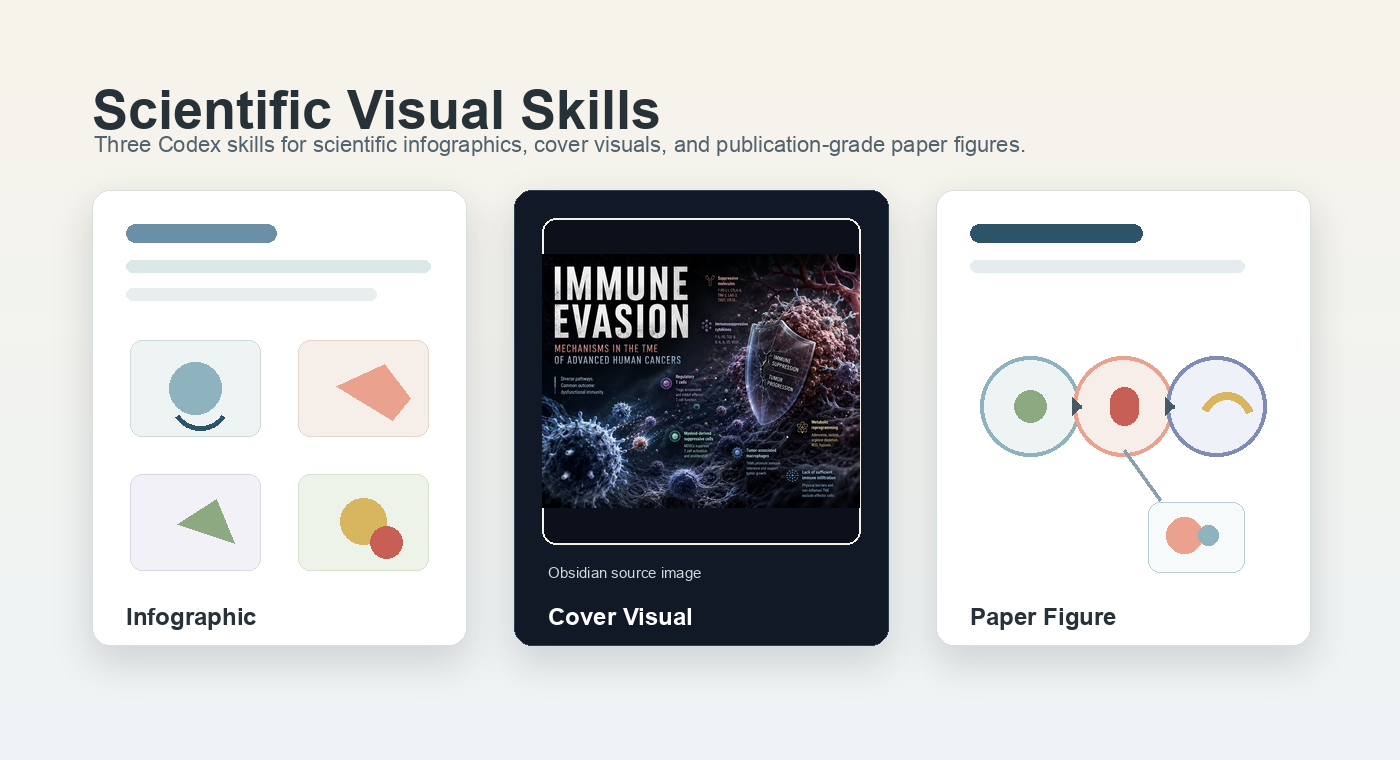
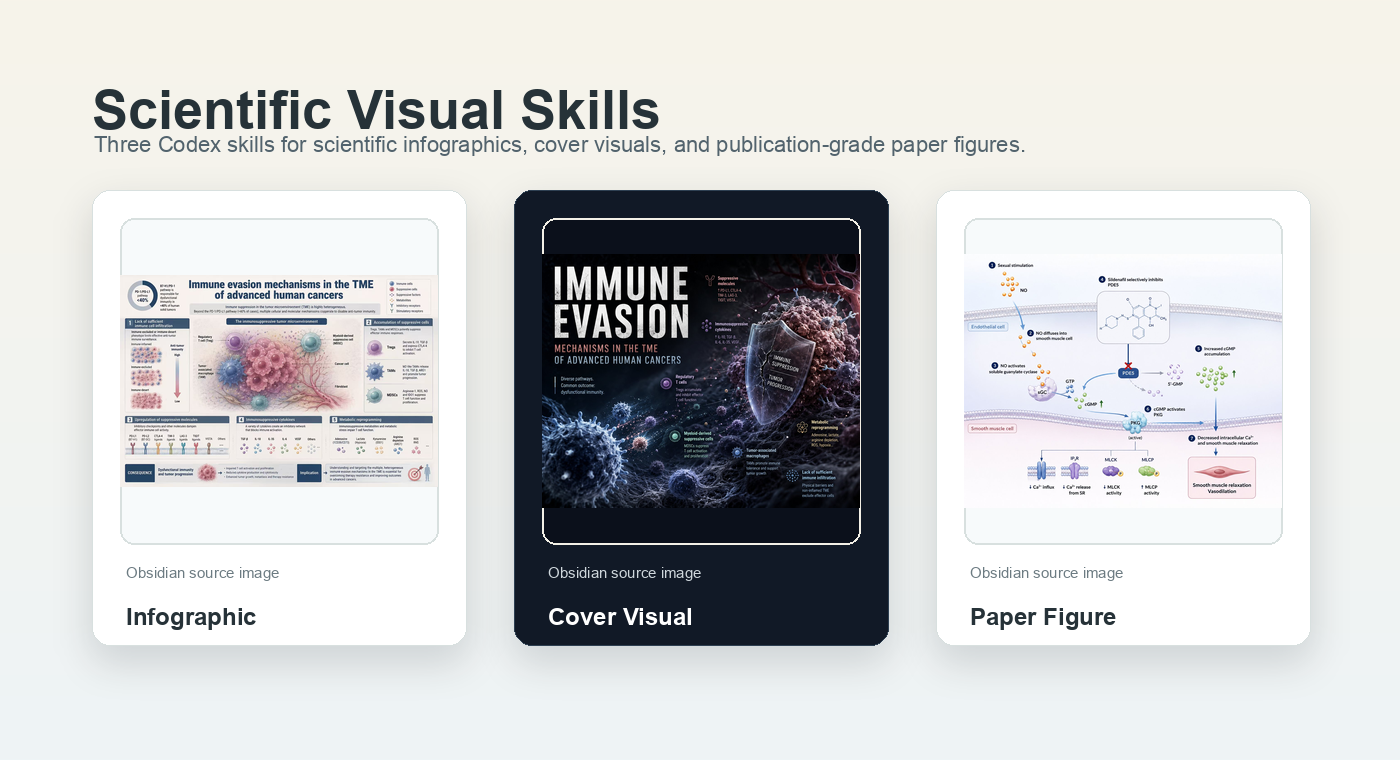
Use Obsidian source images for README cover cards

diff --git a/README.md b/README.md
@@ -160,7 +160,9 @@ scientific-visual-skills/
 ├── LICENSE
 ├── assets/
 │   ├── scientific-visual-skills-cover.png
+│   ├── obsidian-scientific-infographic.jpg
 │   ├── obsidian-scientific-cover-visual.jpg
+│   ├── obsidian-scientific-paper-figure.jpg
 │   └── opensea/
 │       └── README.md
 ├── docs/
@@ -189,7 +191,7 @@ scientific-visual-skills/
 - 已记录来源 URL、权利人、许可依据和检查日期。
 - 图片中不包含未经授权的商标、人物肖像或机构标识。
 
-当前仓库封面图中间卡片采用用户 Obsidian 资料中的科研封面示例图，作为 `scientific-cover-visual` 的视觉展示；仓库不直接打包第三方 OpenSea 图片。
+当前仓库封面图采用用户 Obsidian 资料中的三张科研视觉示例图，分别对应 `scientific-infographic`、`scientific-cover-visual` 和 `scientific-paper-figure`；仓库不直接打包第三方 OpenSea 图片。
 
 ## 适合人群
 

diff --git a/docs/github-publishing.md b/docs/github-publishing.md
@@ -45,7 +45,7 @@ Initial release: scientific visual generation skills
 
 ## OpenSea Image Handling
 
-Do not add third-party OpenSea marketplace images unless redistribution rights are confirmed. The current repository includes a composite PNG cover that uses the user-provided Obsidian scientific cover image in the center card, plus a reserved `assets/opensea/` folder with rights documentation requirements.
+Do not add third-party OpenSea marketplace images unless redistribution rights are confirmed. The current repository includes a composite PNG cover that uses user-provided Obsidian scientific visual images in all three cards, plus a reserved `assets/opensea/` folder with rights documentation requirements.
 
 If approved OpenSea images are added later, document each asset with:
 

diff --git a/docs/image-asset-policy.md b/docs/image-asset-policy.md
@@ -39,4 +39,4 @@ For each image, add a short note with:
 
 ## Current Repository State
 
-This repository does not bundle third-party OpenSea images by default. The README cover uses a user-provided Obsidian source image for the central scientific cover visual example, plus a generated composite PNG for project presentation.
+This repository does not bundle third-party OpenSea images by default. The README cover uses three user-provided Obsidian source images for the infographic, cover visual, and paper figure examples, plus a generated composite PNG for project presentation.